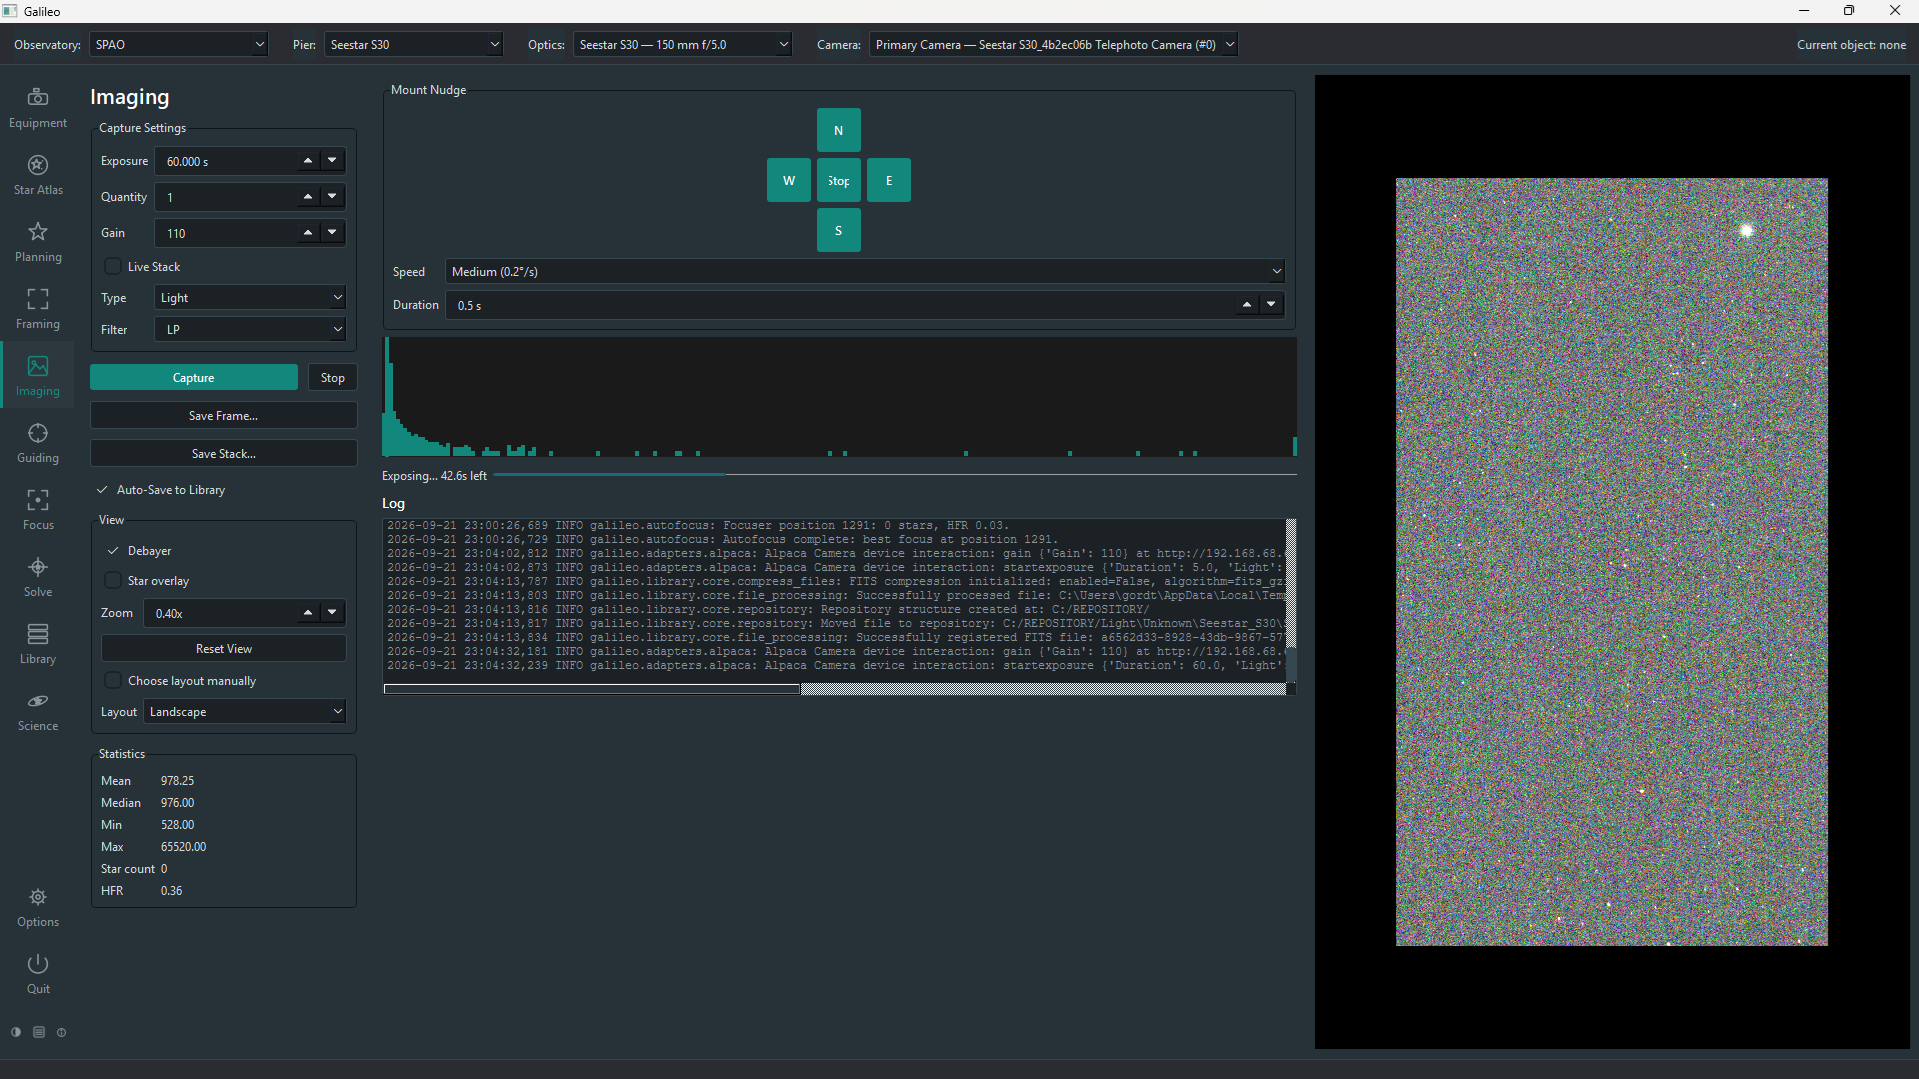
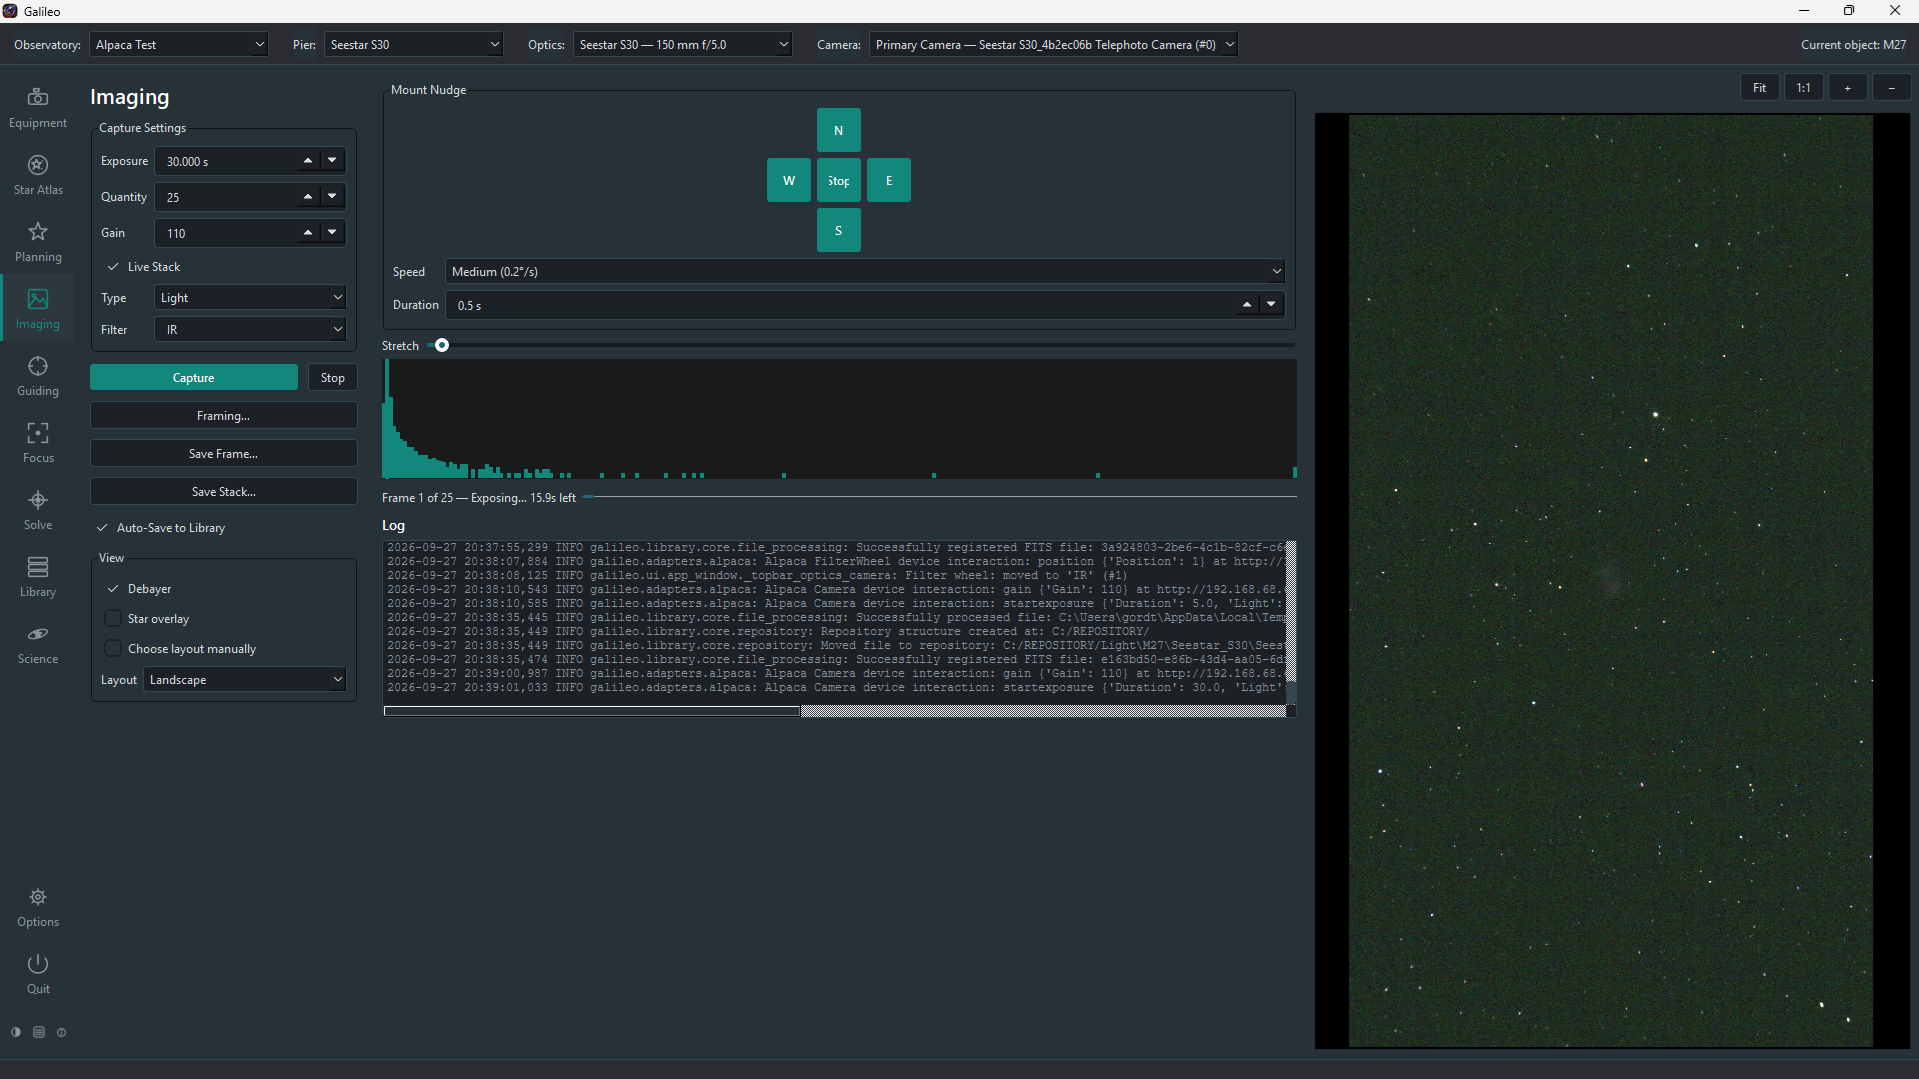
Update

diff --git a/galileo/ui/app_window/_camera_page.py b/galileo/ui/app_window/_camera_page.py
@@ -463,6 +463,17 @@ class AppWindowCameraPageMixin:
         def reload_page() -> None:
             from galileo.observatory import get_device_config, list_device_config_slots
 
+            # Drop any backend connected for the previous Pier — unlike the
+            # Mount/Focuser pages' single `state["adapter"] = None`,
+            # autoconnect_page() below treats a slot already present in
+            # self._camera_backends as "still valid" (needed so Save can
+            # re-call it without disrupting a live connection). Without this,
+            # switching Piers left the old Pier's camera adapter under the
+            # same "primary camera"/"camera N" key, so captures kept using
+            # the previous Pier's camera even after this page's fields (and
+            # autoconnect_page(), skipped by that guard) showed the new one.
+            self._camera_backends.clear()
+
             saved_slots: list[str] = []
             if self._current_pier is not None:
                 try:

diff --git a/CHANGELOG.md b/CHANGELOG.md
@@ -16,6 +16,7 @@ The format is based on [Keep a Changelog](https://keepachangelog.com/en/1.1.0/).
 
 ### Fixed
 
+- **Switching Piers left the Imaging tab (and Focus/Plate Solve) still capturing from the previous Pier's camera**, even once the Camera page's fields and top-bar selector visibly showed the new Pier's configured device. `self._camera_backends` (`galileo/ui/app_window/_core.py`) is a single dict keyed only by slot label (`"primary camera"`, `"camera 2"`, …), not by Pier, and `_camera_page.py`'s `autoconnect_page()` treats a slot already present in it as "already connected" and skips reconnecting — a guard added so Save could safely re-call it without disrupting a live connection. A Pier switch's `reload_page()` never cleared that dict (unlike the Mount and Focuser pages, which each null their own cached adapter on reload), so the new Pier's `autoconnect_page()` found the old Pier's adapter still sitting under the same key and left it in place; every downstream "fresh" lookup by slot label (`_imaging_page.py`, `focus.py`, `solve.py`) then resolved to that stale adapter. Fixed by having `_camera_page.py`'s `reload_page()` clear `self._camera_backends` up front, so a genuine Pier switch always reconnects the newly configured camera(s), while Save's direct call to `autoconnect_page()` (which never goes through `reload_page()`) keeps its original re-entrant, non-disruptive behavior.
 - **`install/launch_galileo.bat`/`.ps1` could self-corrupt into a permanently "locally modified" state, blocking every future `git pull` in that install with `error: Your local changes to the following files would be overwritten by merge` — without the user ever having touched either file.** Both scripts do their own auto-update (`git fetch` + `git reset --hard origin/main`) on every launch, including of the very file currently executing them; a running `.bat` (and, less reliably, a running `.ps1`) reads itself from disk incrementally rather than fully upfront, so rewriting it mid-execution risks the interpreter resuming from the wrong position in the new content — a classic self-modifying-script hazard on Windows, and the actual mechanism behind at least one report of this. Fixed by splitting each launcher into a thin, essentially-frozen-going-forward stub that does only the update check (`launch_galileo.bat`/`.ps1`), plus a new `run_galileo.bat`/`.ps1` holding everything that actually changes release to release (venv check, app launch, error logging) — invoked only *after* the update check completes, so it's never open while `git reset --hard` runs and can change freely without risk. Desktop shortcuts still target `launch_galileo.bat` unchanged; existing installs affected by this recover with a one-time `git restore install/launch_galileo.bat install/launch_galileo.ps1 && git pull`. `install/README.md` updated to describe the split.
 - **`install/install.ps1` failed with `The term 'p' is not recognized...` (and cascading `python.exe is not recognized` errors) whenever Python was resolved via the plain `python`/`python3` command rather than the `py -3.11` launcher.** `Resolve-Python` returns a one-element array (`@($cmd)`) in that case, but PowerShell unwraps a function's single-object pipeline output on assignment, so `$PythonCmd` ended up a bare string (e.g. `"python"`) instead of an array. `Invoke-Py`'s `$script:PythonCmd.Length -gt 1` check then read the string's *character count* (6, always `-gt 1`) rather than an element count, and indexed it as characters — `$script:PythonCmd[0]`/`[1]` became `'p'`/`'y'`, so it tried to run a nonexistent `p` command. This silently skipped venv creation, which meant every following step (`pip install --upgrade pip`, installing `requirements.txt`) also failed with "python.exe is not recognized" since the venv was never created. Fixed by forcing array semantics in `Invoke-Py` via `@($script:PythonCmd)` before checking `.Length`/indexing, which is correct regardless of whether Resolve-Python's return value got unwrapped. Reproduced and verified against both the one-element (`python`) and two-element (`py -3.11`) resolution paths.
 - **`assets/images/galileo.ico` was raw PNG data (1024×1024) wearing an `.ico` extension, not an actual ICO container** — Explorer can't parse PNG as an icon resource, so the installer's desktop shortcut (`install/install.ps1`, which points `IconLocation` at this file) silently fell back to a generic icon instead of Galileo's. Regenerated the file in place from the same artwork as a real multi-resolution ICO (16/24/32/48/64/128/256 px, via Pillow) — same source image, now actually readable as an icon; dropped from 1.8 MB to ~200 KB in the process. `galileo/app.py`'s `main()` also now calls `app.setWindowIcon(QIcon(...))` against this file, which it never did before, so the running app's own window/taskbar icon matches the shortcut instead of falling back to Qt's default. A desktop shortcut created before this fix keeps showing the generic icon until it's recreated (re-run `install/install.ps1`) or the Windows icon cache is refreshed, since Explorer caches per-shortcut icons.
